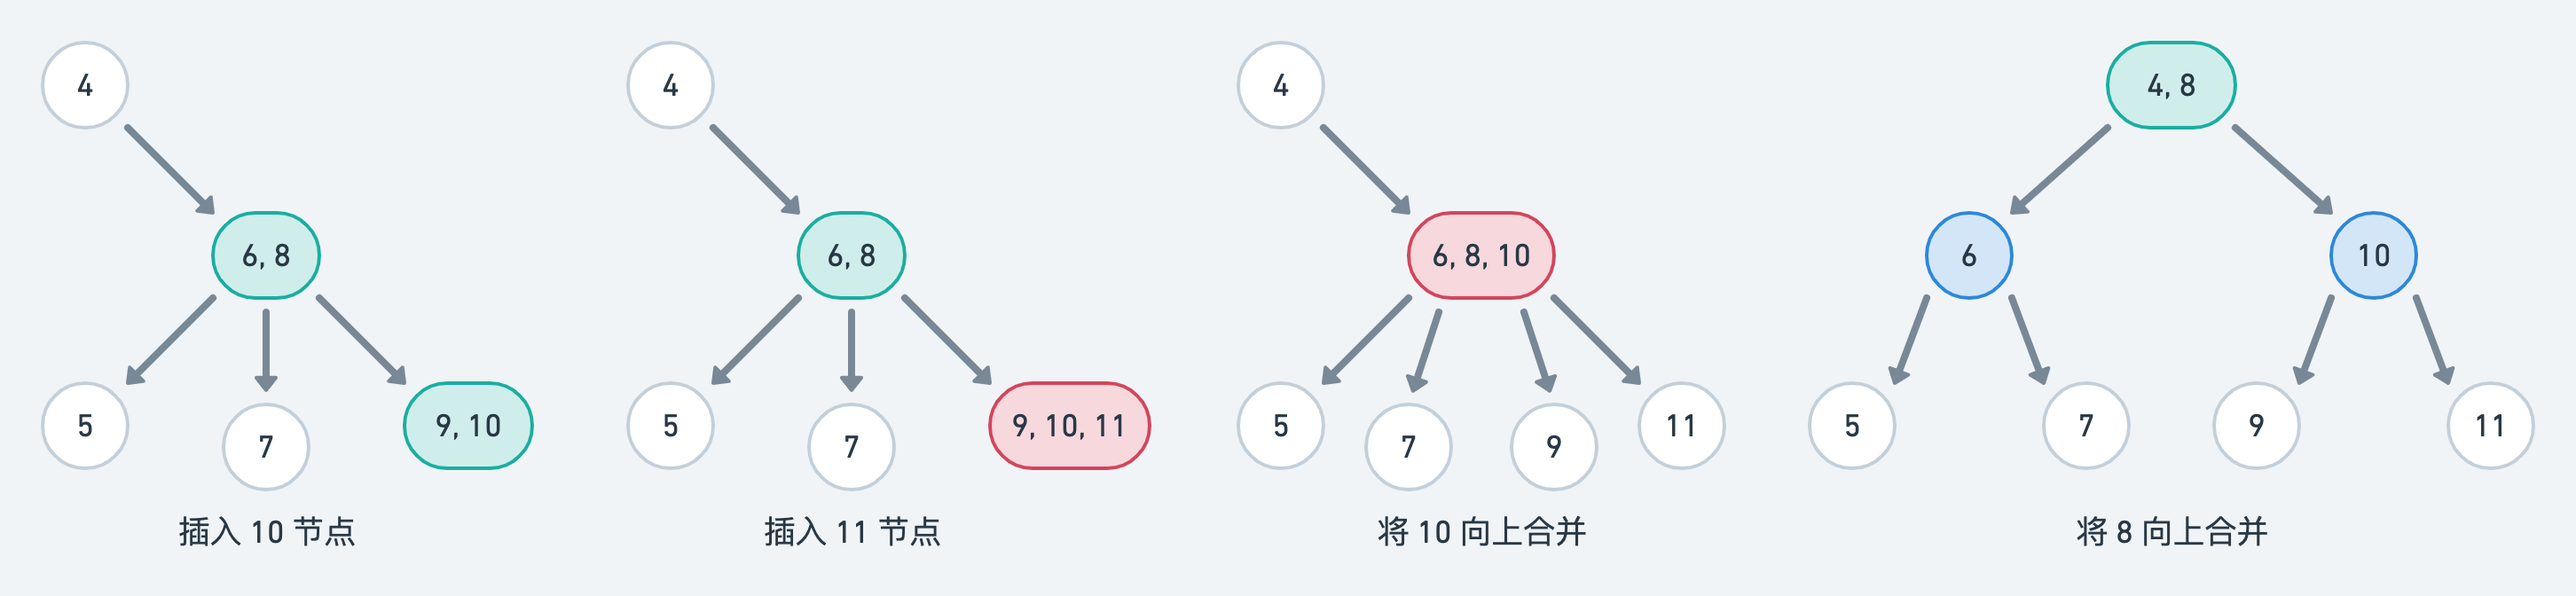
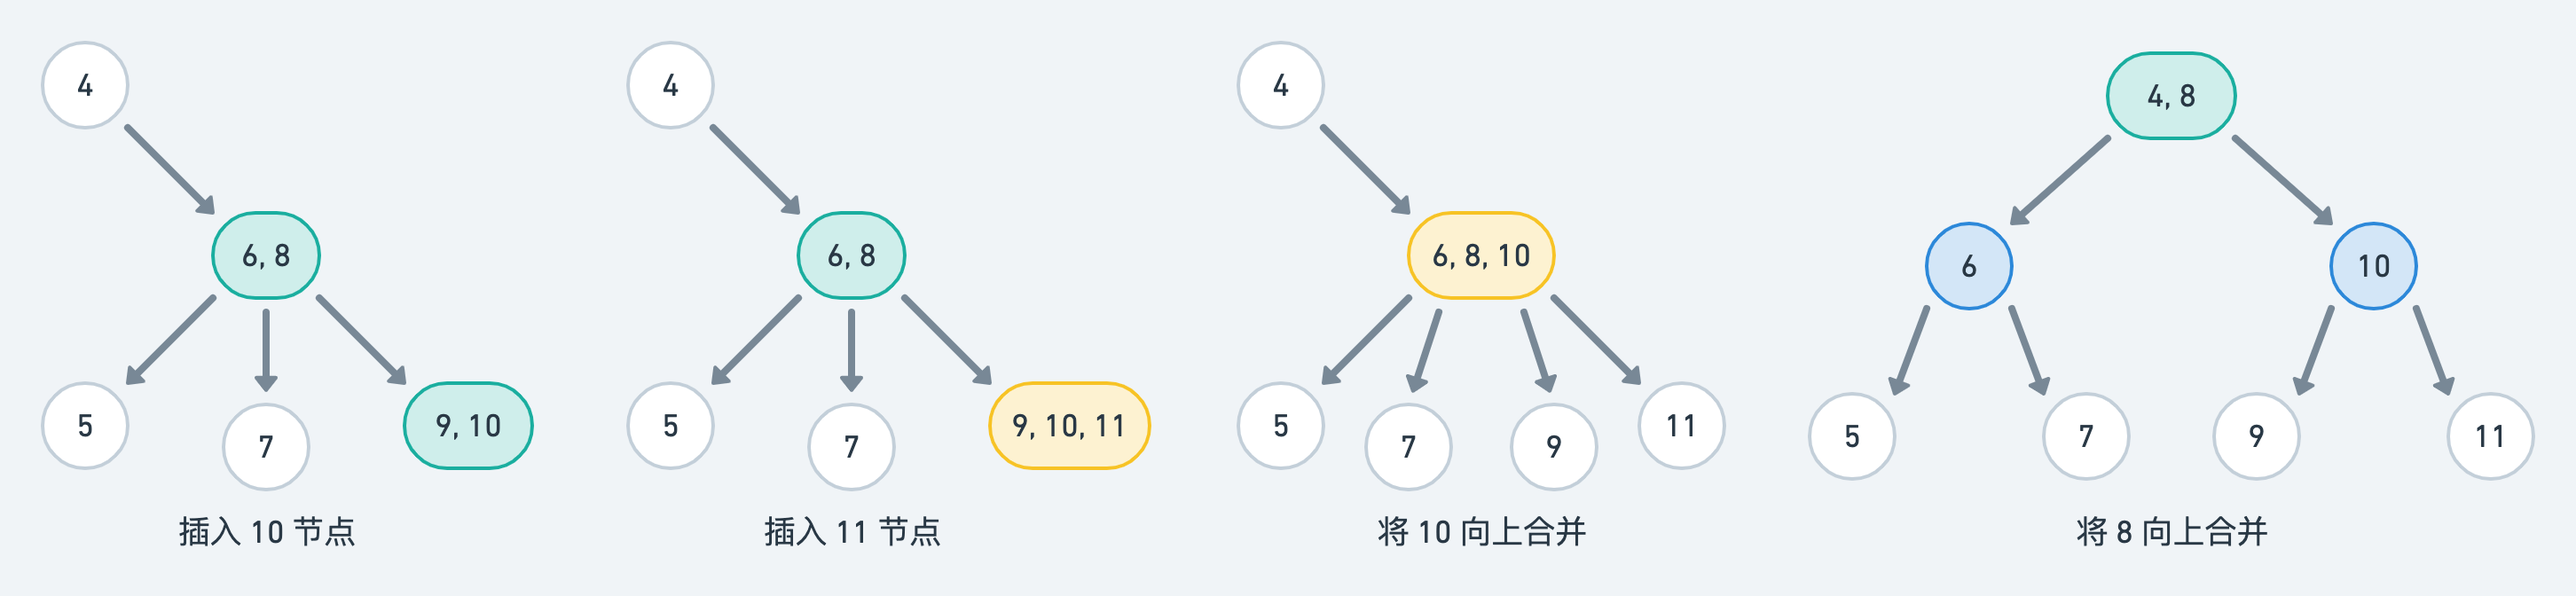
feat: add 3-to-2.png

diff --git a/content/blog/rethink-red-black-tree/index.md b/content/blog/rethink-red-black-tree/index.md
@@ -8,17 +8,17 @@ description: 红黑树本质上是一种 2-3 平衡树。
 
 我们都知道红黑树既是二叉搜索树又是平衡二叉树，最坏情况下的时间复杂度为 $2\log_{2}N$，所以当 $N=100000000$ 时至多需要大约 44 次查找即可。红黑树之所以如此高效，是因为 [其定义](https://zh.wikipedia.org/wiki/%E7%BA%A2%E9%BB%91%E6%A0%91) 保证了它在最坏情况下也基本是自平衡的：
 
-> 1. 节点是红色或黑色
+> 1. 结点是红色或黑色
 > 2. 根是黑色
-> 3. 所有叶子都是黑色，注意叶子是 NIL 节点
-> 4. 每个红色节点必须有两个黑色的子节点，即从每个叶子到根的所有路径上不能有两个连续的红色节点
-> 5. 从任一节点到其每个叶子的所有 [简单路径](https://zh.wikipedia.org/wiki/%E9%81%93%E8%B7%AF_(%E5%9B%BE%E8%AE%BA)) 都包含相同数目的黑色节点
+> 3. 所有叶子都是黑色，注意叶子是 NIL 结点
+> 4. 每个红色结点必须有两个黑色的子结点，即从每个叶子到根的所有路径上不能有两个连续的红色结点
+> 5. 从任一结点到其每个叶子的所有 [简单路径](https://zh.wikipedia.org/wiki/%E9%81%93%E8%B7%AF_(%E5%9B%BE%E8%AE%BA)) 都包含相同数目的黑色结点
 
 ![维基百科的红黑树示意图](./wikipedia-red-black-tree.png)
 
 > 这些约束确保了红黑树的关键特性：从根到叶子的最长的可能路径不多于最短的可能路径的两倍长。结果是这个树大致上是平衡的。
 >
-> 要知道为什么这些性质确保了这个结果，注意到性质 4 导致了路径不能有两个毗连的红色节点就足够了。最短的可能路径都是黑色节点，最长的可能路径有交替的红色和黑色节点。因为根据性质 5 所有最长的路径都有相同数目的黑色节点，这就表明了没有路径能多于任何其他路径的两倍长。
+> 要知道为什么这些性质确保了这个结果，注意到性质 4 导致了路径不能有两个毗连的红色结点就足够了。最短的可能路径都是黑色结点，最长的可能路径有交替的红色和黑色结点。因为根据性质 5 所有最长的路径都有相同数目的黑色结点，这就表明了没有路径能多于任何其他路径的两倍长。
 
 不过以上都是老生常谈了，相信大多数博客也都是这么介绍的。但都没有回答一个关键的问题，即红黑树究竟是怎样诞生的？我们一般都是通过观察结构特性来理解数据结构，但红黑树不一样的地方在于，它跳出了结构特性这种抽象的骨架，变得具体了——加上了颜色，使得理解难度瞬间上升。读者可能明白红黑树是怎样运行的，但却不一定知道它是怎样诞生的，这就有点知其然不知其所以然的嫌疑了。
 
@@ -26,17 +26,17 @@ description: 红黑树本质上是一种 2-3 平衡树。
 
 若读者身边有吃灰的《算法（第 4 版）》，请直接查阅「3.3 平衡查找树」章节，不用继续往下读了；若读者对 2-3 平衡树与红黑树之间的转换已经有所了解，则也不用往下读了——毕竟本文不过是书中内容的复述而已。那么接下来就让我们开始吧。
 
-2-3 平衡树由两类节点组成：
+2-3 平衡树由两类结点组成：
 
-- 2- 节点，该节点包含一个值和两个子节点，其左子节点的值小于它，而右子节点的值大于它
-- 3- 节点，该节点包含两个值和三个子节点，其左子节点的值小于它，其右子节点的值大于它，而中子结点的值位于该节点的两个值之间
+- 2- 结点，该结点包含一个值和两个子结点，其左子结点的值小于它，而右子结点的值大于它
+- 3- 结点，该结点包含两个值和三个子结点，其左子结点的值小于它，其右子结点的值大于它，而中子结点的值位于该结点的两个值之间
 
-![蓝色节点为 2- 节点，绿色节点为 3- 节点](./2-3-tree-example.png)
+![蓝色结点为 2- 结点，绿色结点为 3- 结点](./2-3-tree-example.png)
 
-基于这两类节点的查找操作非常简单，几乎就和递归遍历二叉树一样。唯一不同的是，对于 3- 节点，需要多递归一次中间的子节点。我们可以用一段 Kotlin 代码简单表示这段逻辑：
+基于这两类结点的查找操作非常简单，几乎就和递归遍历二叉树一样。唯一不同的是，对于 3- 结点，需要多递归一次中间的子结点。我们可以用一段 Kotlin 代码简单表示这段逻辑：
 
 ```kotlin
-// 如果是 2- 节点，则 min = max 且 middle = null
+// 如果是 2- 结点，则 min = max 且 middle = null
 class TreeNode(var min: Int, var max: Int) {
     var left:   TreeNode? = null
     var right:  TreeNode? = null
@@ -54,23 +54,33 @@ fun dfs(root: TreeNode?, target: Int): Boolean {
 }
 ```
 
-关键点在于构造 2-3 平衡树的过程，读者应当会好奇 3- 节点是如何被构造出来的。同时我们也将看到，如果按照此方法构造一棵树，那么这棵树基本是自平衡的。
+关键点在于构造 2-3 平衡树的过程，读者应当会好奇 3- 结点是如何被构造出来的。同时我们也将看到，如果按照此方法构造一棵树，那么这棵树基本是自平衡的。
 
-以 4 → 2 → 1 → 3 的顺序插入节点，我们可以很轻易地构造出上图左边的 2- 节点分支。接着按照 6 → 5 → 7 → 8 → 9 的顺序插入节点，上图右边的 3- 节点分支构造过程如下：
+以 4 → 2 → 1 → 3 的顺序插入结点，我们可以很轻易地构造出上图左边的 2- 结点分支。接着按照 6 → 5 → 7 → 8 → 9 的顺序插入结点，上图右边的 3- 结点分支构造过程如下：
 
-![红色节点为 4- 节点，需要将它的中间值 8 向上合并，并调整子节点结构](./insert-8-9.png)
+![黄色结点为 4- 结点，需要将它的中间值 8 向上合并，并调整子结点结构](./insert-8-9.png)
 
-1. 当插入 8 节点时，我们将其与 7 节点合并成为一个 3- 节点 (7, 8)，而不是将其作为 7 节点的子节点，这样就能保证整棵树仍然是自平衡的
-2. 当插入 9 节点时，我们将其与 (7, 8) 节点合并成为一个 4- 节点 (7, 8, 9)；接着将 (7, 8, 9) 节点的中间值 8 提取出来，向上合并到 6 节点使之成为一个新的 3- 节点 (6, 8)；而 7 节点成为 (6, 8) 节点的中子节点，9 节点成为 (6, 8) 节点的右子节点；此时整棵树仍然是自平衡的
+1. 当插入 8 结点时，我们将其与 7 结点合并成为一个 3- 结点 (7, 8)，而不是将其作为 7 结点的子结点，这样就能保证整棵树仍然是自平衡的
+2. 当插入 9 结点时，我们将其与 (7, 8) 结点合并成为一个 4- 结点 (7, 8, 9)；接着将 (7, 8, 9) 结点的中间值 8 提取出来，向上合并到 6 结点使之成为一个新的 3- 结点 (6, 8)；而 7 结点成为 (6, 8) 结点的中子结点，9 结点成为 (6, 8) 结点的右子结点；此时整棵树仍然是自平衡的
 
-我们继续按照 10 → 11 的顺序插入节点，看看会发生什么：
+我们继续按照 10 → 11 的顺序插入结点，看看会发生什么：
 
-![红色节点为 4- 节点，需要将它的中间值不断向上合并，并调整子节点结构](./insert-10-11.png)
+![黄色结点为 4- 结点，需要将它的中间值不断向上合并，并调整子结点结构](./insert-10-11.png)
 
-1. 当插入 10 节点时，我们将其与 9 节点合并成为一个 3- 节点 (9, 10)
-2. 当插入 11 节点时，我们将其与 (9, 10) 节点合并成为一个 4- 节点 (9, 10, 11)；接着将 (9, 10, 11) 节点的中间值 10 提取出来，向上合并到 (6, 8) 节点使之成为一个新的 4- 节点 (6, 8, 10)；而 9 节点成为 (6, 8, 10) 节点的偏右节点，11 节点成为 (6, 8, 10) 节点的右节点
-3. 由于 (6, 8, 10) 节点仍然是一个 4- 节点，我们需要将其中间值 8 提取出来，继续向上合并到 4 节点使之成为一个新的 3- 节点 (4, 8)；剩下的 (6, 10) 节点有两个值和四个子节点，我们需要将其分裂成 6 节点和 10 节点，从而满足 2- 节点的结构
+1. 当插入 10 结点时，我们将其与 9 结点合并成为一个 3- 结点 (9, 10)
+2. 当插入 11 结点时，我们将其与 (9, 10) 结点合并成为一个 4- 结点 (9, 10, 11)；接着将 (9, 10, 11) 结点的中间值 10 提取出来，向上合并到 (6, 8) 结点使之成为一个新的 4- 结点 (6, 8, 10)；而 9 结点成为 (6, 8, 10) 结点的偏右结点，11 结点成为 (6, 8, 10) 结点的右结点
+3. 由于 (6, 8, 10) 结点仍然是一个 4- 结点，我们需要将其中间值 8 提取出来，继续向上合并到 4 结点使之成为一个新的 3- 结点 (4, 8)；剩下的 (6, 10) 结点有两个值和四个子结点，我们需要将其分裂成 6 结点和 10 结点，从而满足 2- 结点的结构
 
-读者应该不难想象，此时整棵 2-3 树仍然是自平衡的。更复杂的场景这里就不继续列举了。但如果按照上述顺序构造普通的的二叉查找树，则是不平衡的（右偏）。
+读者应该不难想象，此时整棵 2-3 树仍然是自平衡的。更复杂的场景这里就不继续列举了。如果按照上述顺序构造一棵普通的的二叉查找树，则是不平衡的（右偏）。
 
-TODO
+但构造一棵 2-3 平衡树的难度显然比构造一棵普通的二叉查找树高多了，我们还是希望构造过程相对简单。解决方案是把 3- 结点分裂为两个 2- 结点：
+
+![将两个 2- 结点之间的链接标记为红色](./3-to-2.png)
+
+我们只需要将 3- 结点分裂出的两个 2- 结点之间的链接标记为红色，其余正常的 2- 结点之间的链接都标记为黑色，是不是瞬间就有内味了？维基百科是将结点定义为红色或者黑色，而我们是将结点之间的边定义为红色或者黑色，事实上这是红黑树的一种等价定义：
+
+> 1. 红链接均为左链接
+> 2. 没有任何一个结点同时和两条红链接相连
+> 3. 叶子结点 (NIL) 到根结点的路径上的黑链接数相同，即完美黑色平衡
+
+满足上述三点的含有红黑链接的二叉查找树即是红黑树。TODO
